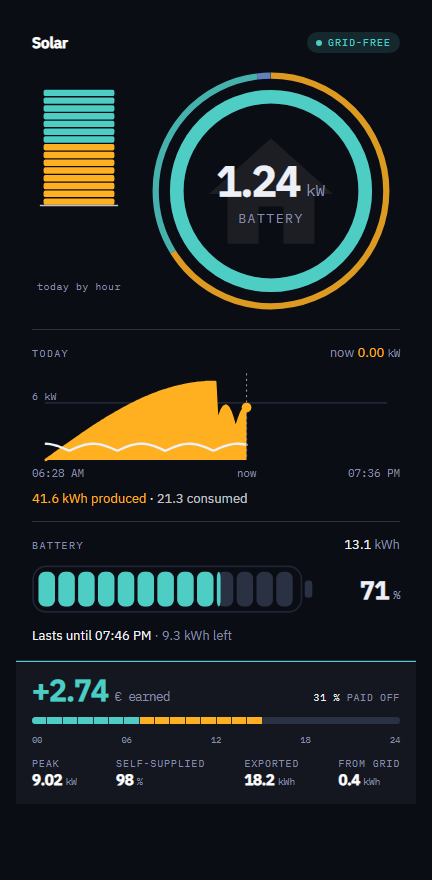
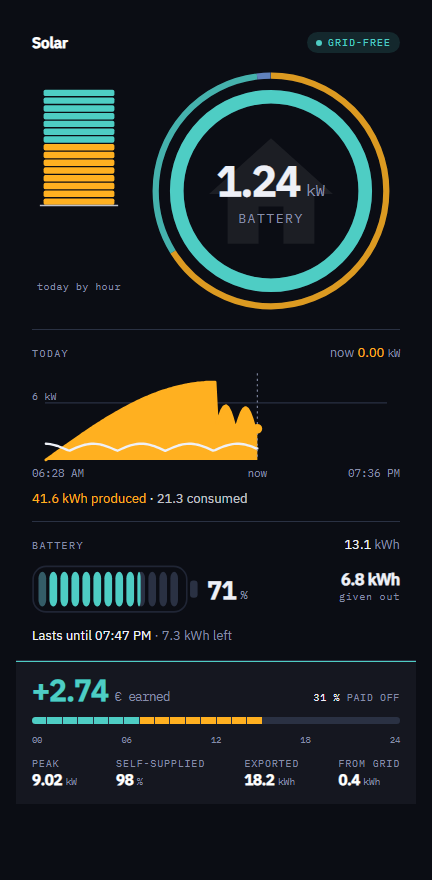
Put the charge beside its bar, and draw the reserve rather than mark it
With a second figure beside it, two percentages ended up touching: the one
the bar is about and one that is not. The charge now sits directly beside its
bar where it belongs, and the second figure takes the far corner, the way the
paid-off share already does under the balance.

And a dashed line across the bar was the wrong answer to the reserve. The
reserve is power that never comes out, so it is drawn as not coming out: those
blocks are filled but held back. The bar then tells the truth by itself and
needs nothing drawn over it.

Claude-Session: https://claude.ai/code/session_01WYfcA1x3pZN41ubiYaXPxj

Changed region(s): [[0.0903, 0.6443, 0.7222, 0.7364], [0.7824, 0.6443, 0.9329, 0.7057], [0.5417, 0.4602, 0.6319, 0.5523]]

diff --git a/src/power-origin-card.ts b/src/power-origin-card.ts
@@ -1271,6 +1271,11 @@ export class PowerOriginCard extends LitElement {
     const tall = bare ? 28 : 32;
     const radius = bare ? 4 : 6;
 
+    const reserve =
+      config.battery.reserve_line && config.battery_reserve > 0 && config.battery_reserve < 100
+        ? config.battery_reserve
+        : 0;
+
     const body =
       config.battery.style === "solid"
         ? svg`<rect class="bat-fill ${tone}" x="${innerStart - 1}" y="${top}" rx="8"
@@ -1281,12 +1286,14 @@ export class PowerOriginCard extends LitElement {
             const pitch = innerWidth / all.length;
             const width = pitch - (bare ? 4 : 3.1);
             const x = innerStart + index * pitch;
+            // Held back: full of power, none of it available.
+            const held = reserve > 0 && ((index + 1) / all.length) * 100 <= reserve;
             return svg`
               <rect class="fill-off" x="${x}" y="${top}" width="${width}"
                     height="${tall}" rx="${radius}"></rect>
               ${
                 segment.fill > 0
-                  ? svg`<rect class="bat-fill ${tone}" x="${x}" y="${top}"
+                  ? svg`<rect class="bat-fill ${tone} ${held ? "held" : ""}" x="${x}" y="${top}"
                               width="${Math.max(3, width * segment.fill)}" height="${tall}"
                               rx="${radius}"></rect>`
                   : nothing
@@ -1305,24 +1312,25 @@ export class PowerOriginCard extends LitElement {
               <rect class="bat-cap" x="${shellW + 4}" y="18" width="7" height="16" rx="3"></rect>`
         }
         ${body}
-        ${(() => {
-          const reserve = config.battery_reserve;
-          if (!config.battery.reserve_line || reserve <= 0 || reserve >= 100) return nothing;
-          const x = innerStart + (innerWidth * reserve) / 100;
-          return svg`<line class="bat-reserve" x1="${x.toFixed(1)}" y1="${top - 3}"
-            x2="${x.toFixed(1)}" y2="${top + tall + 3}"></line>`;
-        })()}
+        ${reserve > 0 && config.battery.style === "solid"
+          ? svg`<rect class="bat-held" x="${innerStart - 1}" y="${top}" rx="8"
+                  width="${((innerWidth + 2) * Math.min(reserve, Math.max(0, soc))) / 100}"
+                  height="${tall}"></rect>`
+          : nothing}
         ${extra
           ? svg`
-            <text class="bat-extra" x="${shellW + 22}" y="${top + 13}">${extra.value}</text>
-            <text class="bat-extra-k" x="${shellW + 22}" y="${top + 27}">${extra.label}</text>`
+            <text class="bat-extra" x="340" y="${top + 12}" text-anchor="end"
+              >${extra.value}</text>
+            <text class="bat-extra-k" x="340" y="${top + 26}" text-anchor="end"
+              >${extra.label}</text>`
           : nothing}
         ${(() => {
           const id = (this._config as ResolvedConfig).entities.battery_soc;
           const on = id && (this._hass as HomeAssistant)?.states?.[id];
           const handlers = on ? this._tap(id!) : undefined;
-          return svg`<text class="bat-pct ${on ? "tap" : ""}" x="340" y="35"
-            text-anchor="end" tabindex="${on ? 0 : -1}"
+          return svg`<text class="bat-pct ${on ? "tap" : ""}"
+            x="${extra ? shellW + 20 : 340}" y="35"
+            text-anchor="${extra ? "start" : "end"}" tabindex="${on ? 0 : -1}"
             @click=${handlers?.click} @keydown=${handlers?.key}
             >${formatNumber(soc, locale, 0)}<tspan dx="4">%</tspan></text>`;
         })()}

diff --git a/tests/render.test.ts b/tests/render.test.ts
@@ -692,17 +692,21 @@ describe("which end of the column is which", () => {
 });
 
 describe("the battery block", () => {
-  it("marks where the reserve begins", async () => {
+  it("draws the reserve as power that does not come out", async () => {
     const { root } = await render(
       baseConfig({ battery_capacity: 13100, battery_reserve: 20 }),
       SCENARIOS[0]
     );
-    expect(root.querySelector(".bat-reserve")).toBeTruthy();
+    // The blocks inside the reserve are filled but held back, not missing.
+    expect(root.querySelectorAll(".bat-fill.held").length).toBeGreaterThan(0);
+    expect(root.querySelectorAll(".bat-fill").length).toBeGreaterThan(
+      root.querySelectorAll(".bat-fill.held").length
+    );
   });
 
-  it("marks nothing when no reserve is set", async () => {
+  it("holds nothing back when no reserve is set", async () => {
     const { root } = await render(baseConfig({ battery_capacity: 13100 }), SCENARIOS[0]);
-    expect(root.querySelector(".bat-reserve")).toBeNull();
+    expect(root.querySelector(".bat-fill.held")).toBeNull();
   });
 
   it("keeps the full width until a second figure is asked for", async () => {

diff --git a/src/styles.ts b/src/styles.ts
@@ -905,12 +905,14 @@ export const cardStyles = css`
     opacity: 0.5;
   }
 
-  /* Where the reserve begins: below it the bar is full of power that never
-     comes out, which a plain bar cannot say. */
-  .bat-reserve {
-    stroke: var(--sst-ink);
-    stroke-width: 1.6;
-    stroke-dasharray: 3 3;
+  /* The reserve is full of power that never comes out, so it is drawn as
+     not coming out rather than marked with a line across the bar. */
+  .bat-fill.held {
+    opacity: 0.28;
+  }
+
+  .bat-held {
+    fill: var(--sst-bg, #000);
     opacity: 0.55;
   }
 
